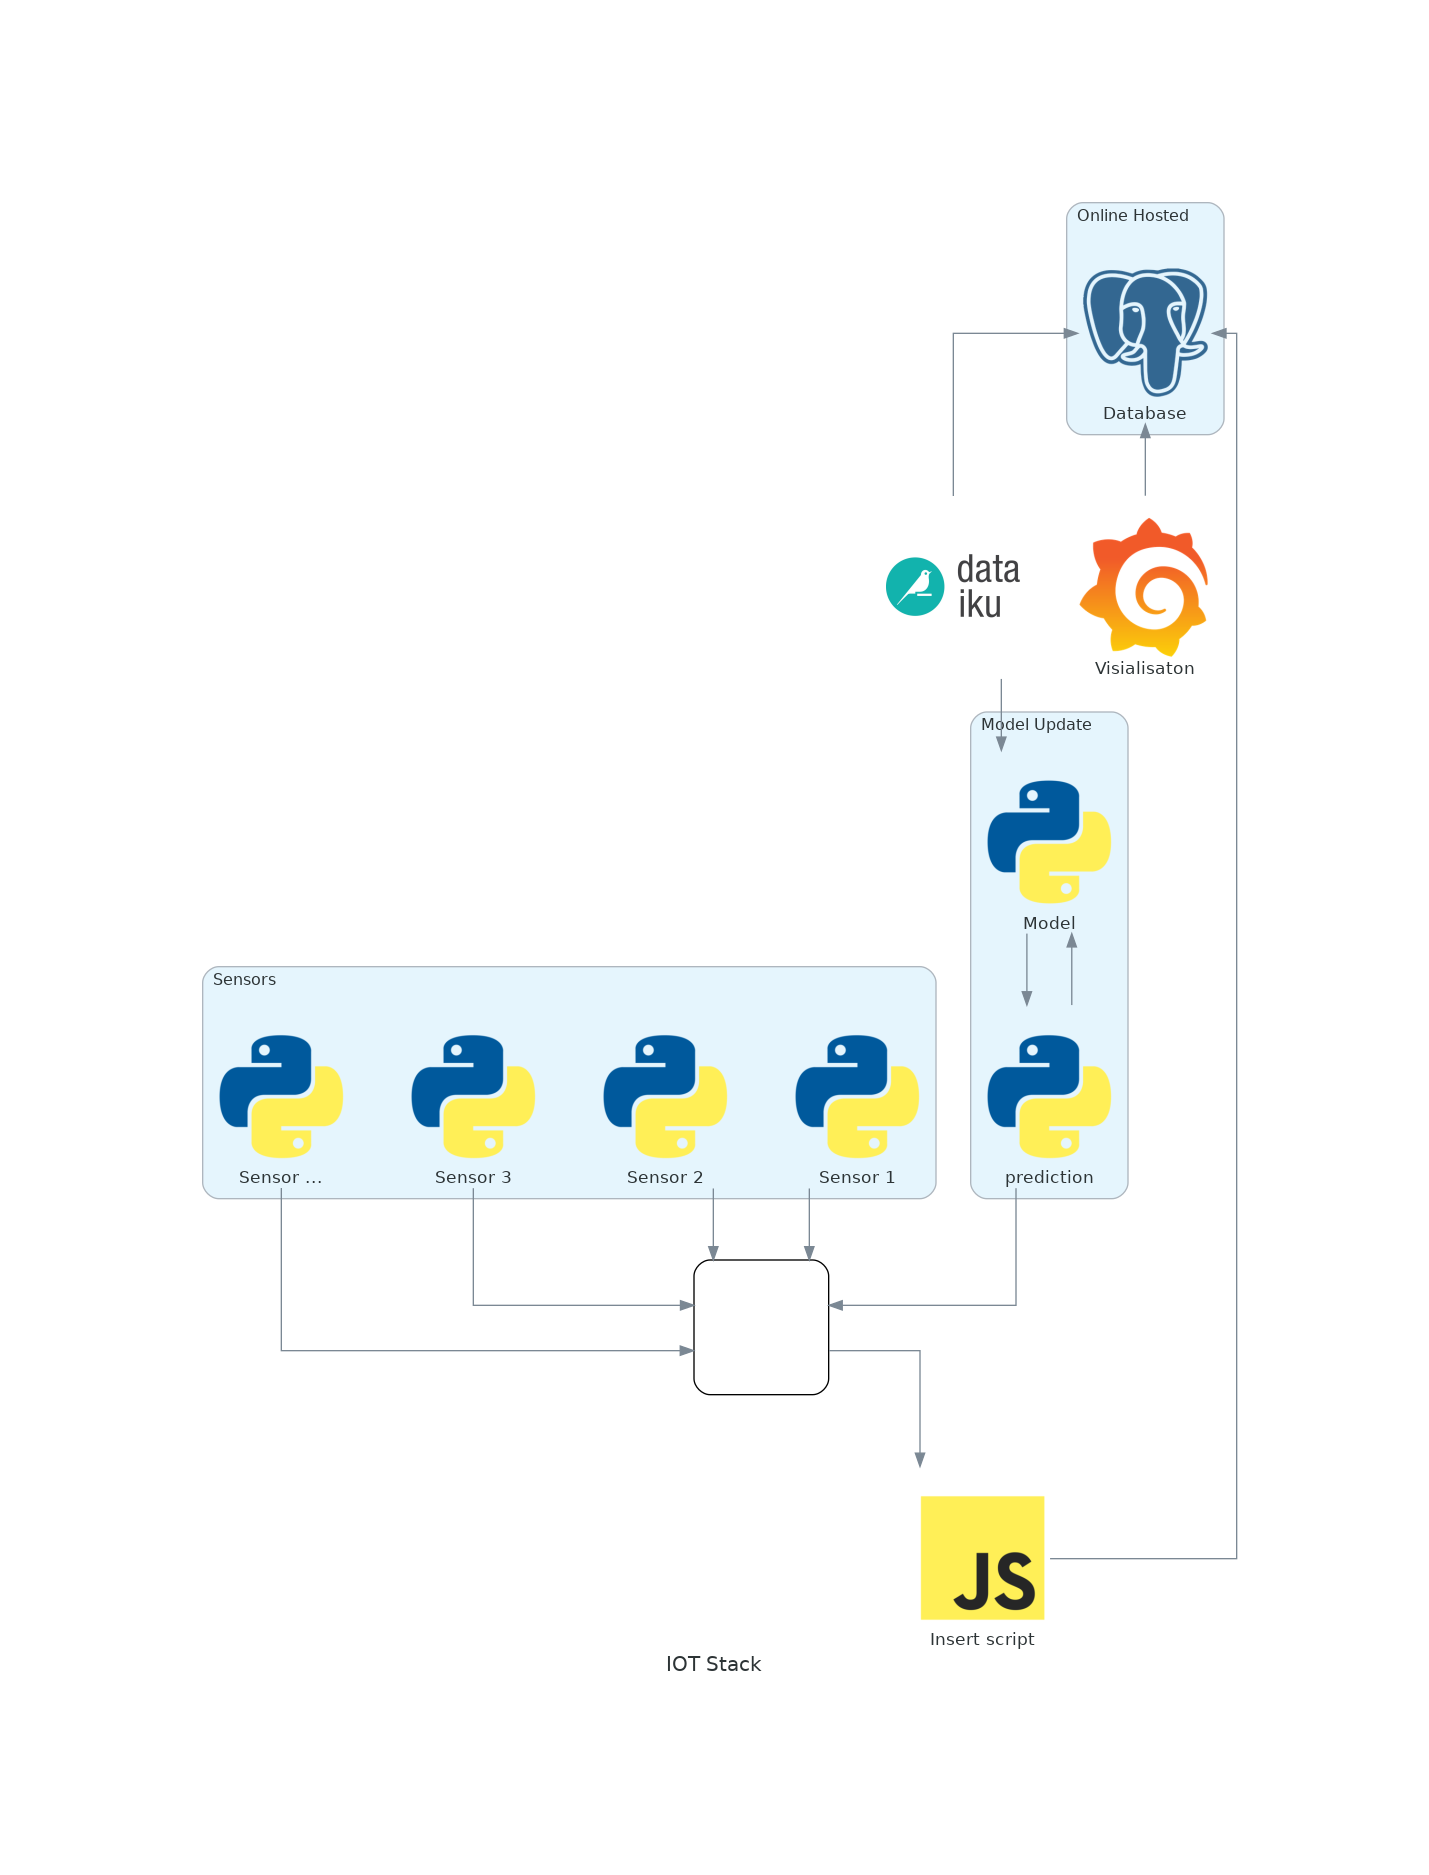
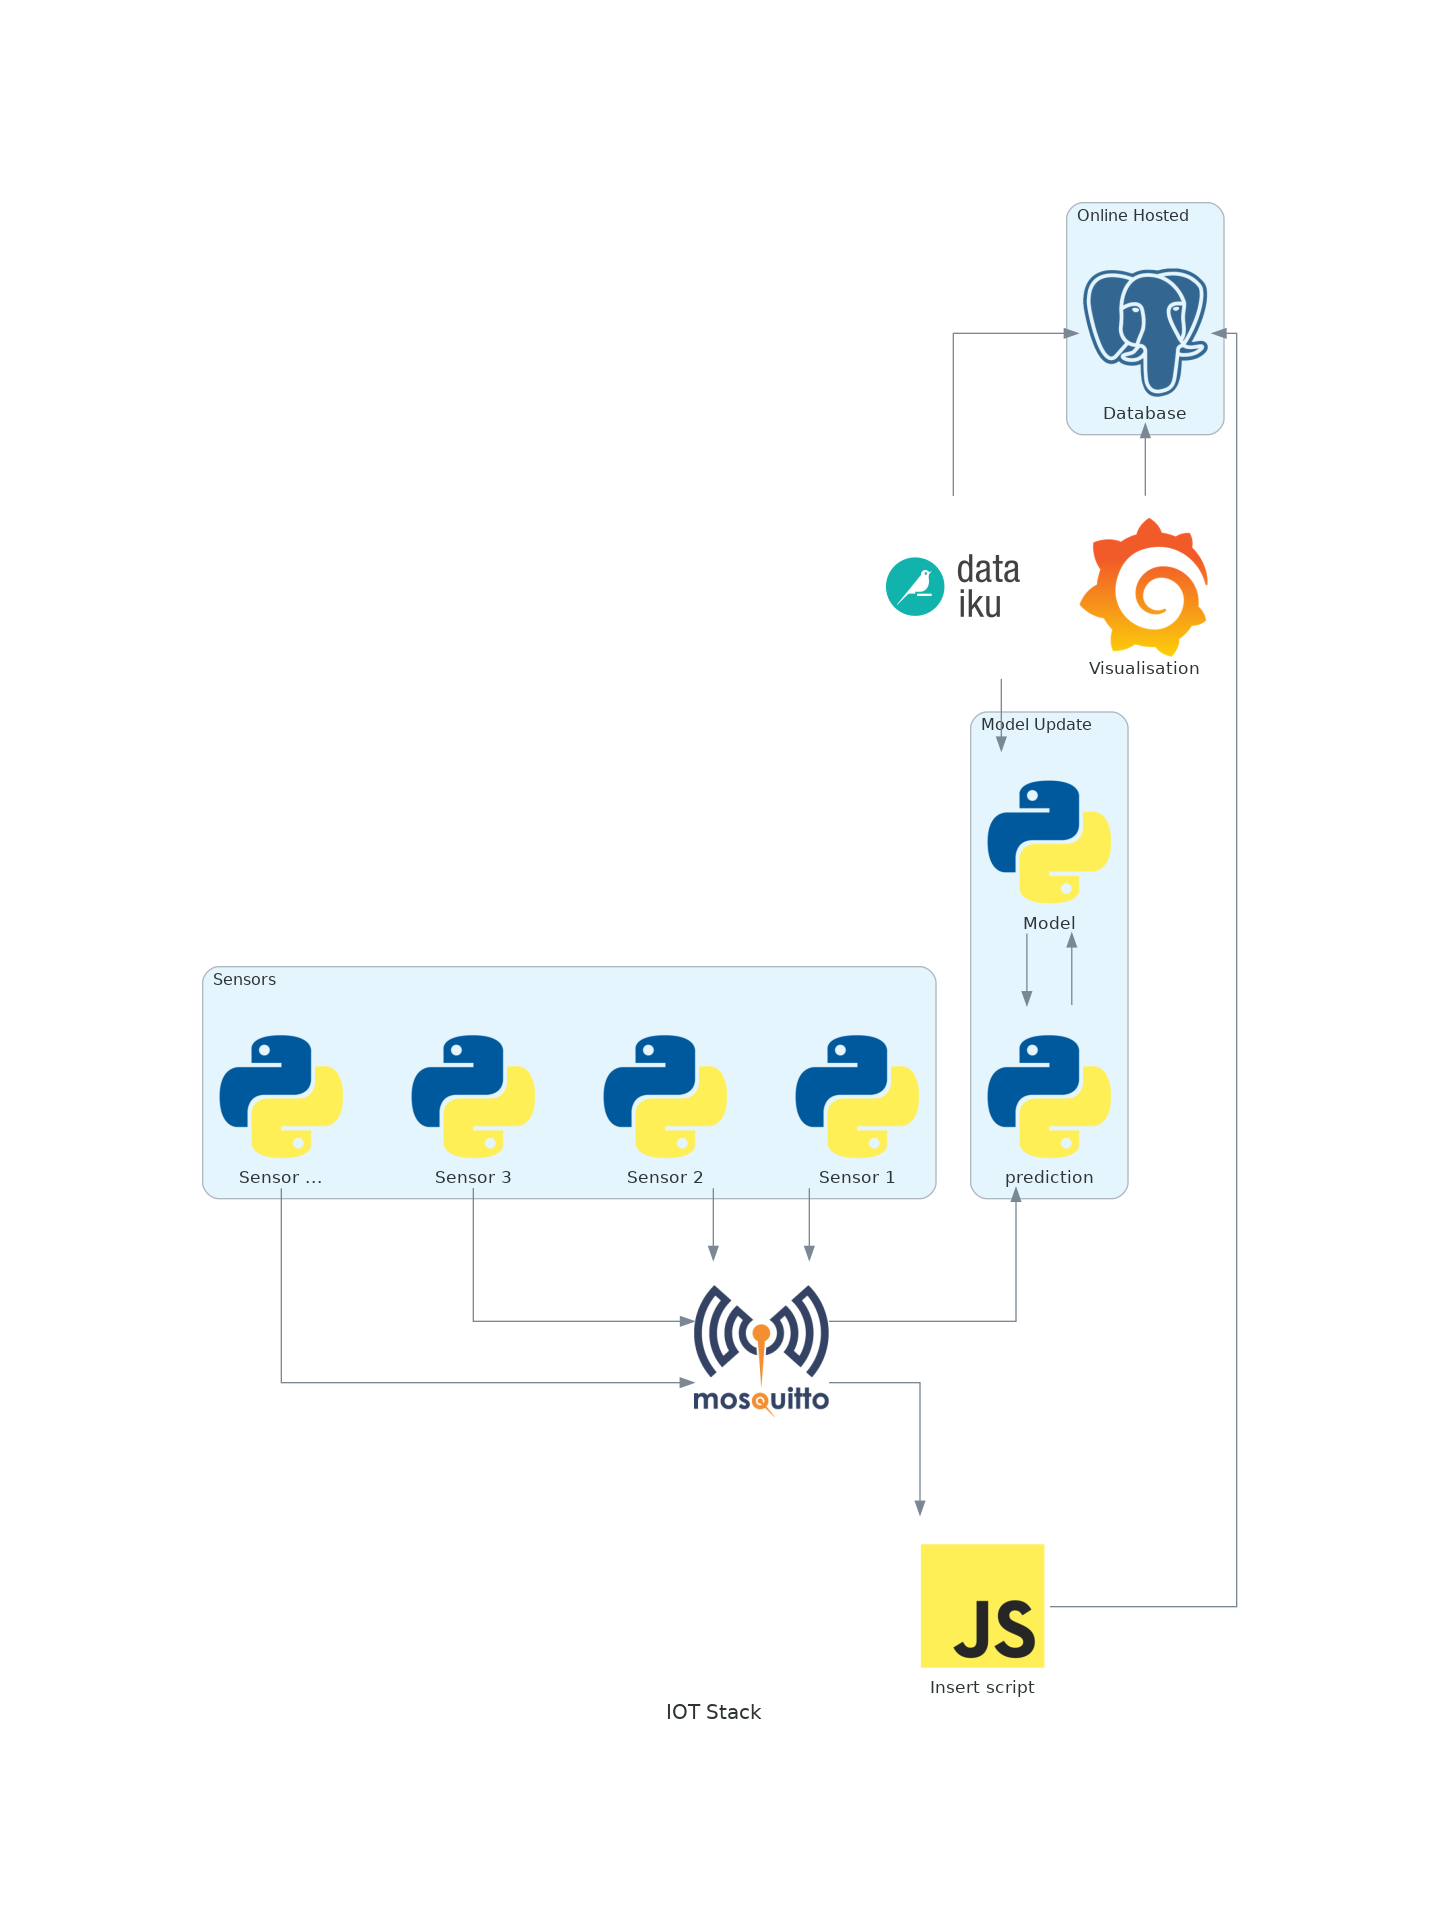
diagram update

diff --git a/docs/diagram.py b/docs/diagram.py
@@ -21,7 +21,7 @@ with Diagram("IOT Stack", show=False, direction="TB"):
     with Cluster("Online Hosted"):
         bdd = Postgresql("Database")
 
-    mqttbroker = Custom("", "")
+    mqttbroker = Custom("", "mosquitto.png")
     dataiku = Custom("", "./dataiku.jpg")
     bdd << dataiku
     
@@ -30,7 +30,7 @@ with Diagram("IOT Stack", show=False, direction="TB"):
     with Cluster("Model Update"):
         model = Python("Model")
         predict = Python("prediction")
-        dataiku >> model >> predict >> mqttbroker
+        dataiku >> model >> predict << mqttbroker
 
 
     with Cluster("Real Time rediction"):
